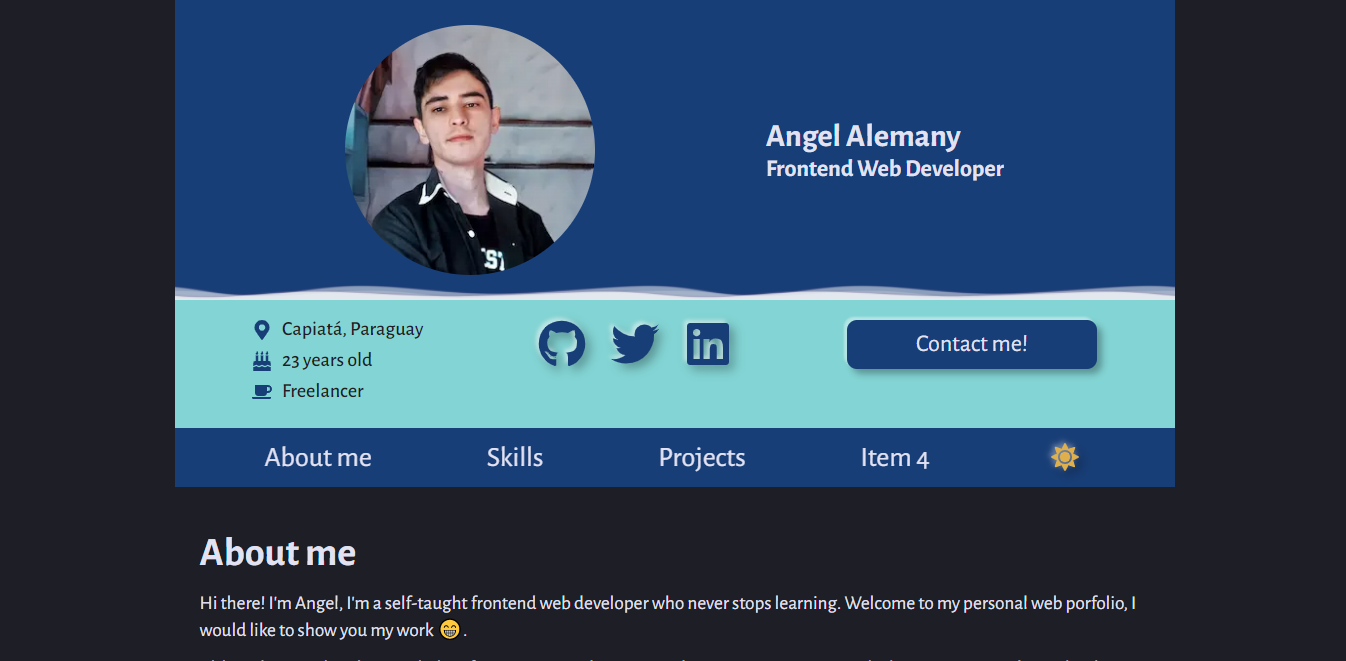
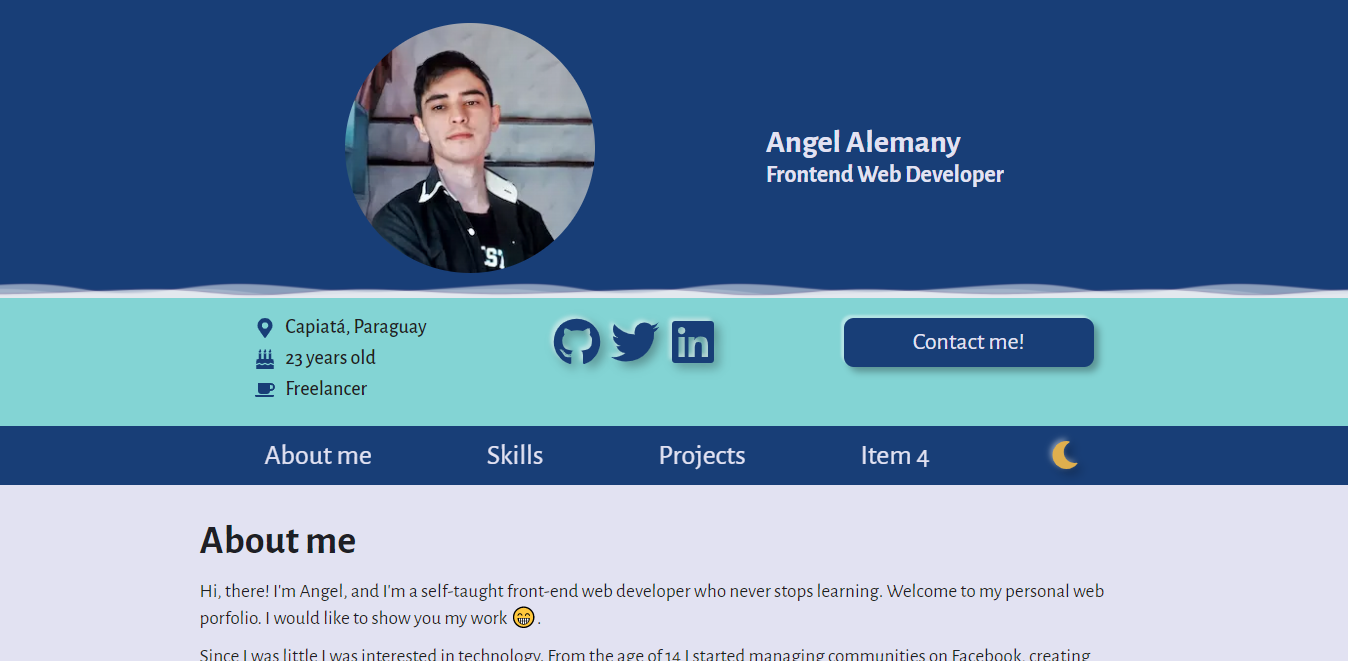
I replaced all gap properties inside a flex container

diff --git a/components/Profile/index.js b/components/Profile/index.js
@@ -1,6 +1,6 @@
 import Image from "next/image";
-import React, { useState } from 'react'
-import { FaTimesCircle } from "react-icons/fa"
+import React, { useState } from "react";
+import { FaTimesCircle } from "react-icons/fa";
 import styles from "./Profile.module.css";
 
 const Profile = () => {
@@ -8,33 +8,39 @@ const Profile = () => {
 
     return (
         <div className={styles.container}>
-            <div className={styles.modal}
-            style={{display: isPicOpen ? "block" : "none"}}>
+            <div className={styles.innerContainer}>
+                <div
+                    className={styles.modal}
+                    style={{ display: isPicOpen ? "block" : "none" }}
+                >
+                    <Image
+                        src="/img/profile.png"
+                        alt="Angel Alemany"
+                        layout="fill"
+                        objectFit="cover"
+                    />
+                    <FaTimesCircle
+                        className={styles.close}
+                        onClick={() => setIsPicOpen(false)}
+                    />
+                </div>
                 <Image
+                    className={styles.photo}
                     src="/img/profile.png"
                     alt="Angel Alemany"
-                    layout="fill"
-                    objectFit="cover"
+                    width={250}
+                    height={250}
+                    onClick={() => setIsPicOpen(true)}
                 />
-                <FaTimesCircle className={styles.close}
-                onClick={() => setIsPicOpen(false)} />
-            </div>
-            <Image
-                className={styles.photo}
-                src="/img/profile.png"
-                alt="Angel Alemany"
-                width={250}
-                height={250}
-                onClick={() => setIsPicOpen(true)}
-            />
-            <div className={styles.info}>
-                <h1>Angel Alemany</h1>
-                <h2>Frontend Web Developer</h2>
-            </div>
+                <div className={styles.info}>
+                    <h1>Angel Alemany</h1>
+                    <h2>Frontend Web Developer</h2>
+                </div>
 
-            <div className={styles.wave1}></div>
-            <div className={styles.wave2}></div>
-            <div className={styles.wave3}></div>
+                <div className={styles.wave1}></div>
+                <div className={styles.wave2}></div>
+                <div className={styles.wave3}></div>
+            </div>
         </div>
     );
 };

diff --git a/pages/index.js b/pages/index.js
@@ -10,33 +10,35 @@ import Footer from "../components/Footer";
 
 export default function Home({ dark, setDark }) {
     return (
-        <Layout dark={dark}>
-            <Head>
-                <title>Angel Alemany, Frontend Web Developer</title>
-                <meta
-                    name="description"
-                    content="Hi there! I'm a frontend web developer from Capiatá, Paraguay. Check out my work!"
-                />
-                <meta name="robots" content="index, follow" />
-                <meta
-                    property="og:title"
-                    content="Take a look at my portfolio!"
-                />
-                <meta property="og:image" content="/img/profile.png" />
-                <meta property="og:type" content="website" />
-                <meta
-                    property="og:description"
-                    content="Hi there! I'm a frontend web developer from Capiatá, Paraguay. Check out my work!"
-                />
-                <meta name="theme-color" content="#183e77" />
-            </Head>
+        <>
             <Profile />
             <Info />
             <Nav dark={dark} setDark={setDark} />
-            <About />
-            <Skills />
-            <Projects />
+            <Layout dark={dark}>
+                <Head>
+                    <title>Angel Alemany, Frontend Web Developer</title>
+                    <meta
+                        name="description"
+                        content="Hi there! I'm a frontend web developer from Capiatá, Paraguay. Check out my work!"
+                    />
+                    <meta name="robots" content="index, follow" />
+                    <meta
+                        property="og:title"
+                        content="Take a look at my portfolio!"
+                    />
+                    <meta property="og:image" content="/img/profile.png" />
+                    <meta property="og:type" content="website" />
+                    <meta
+                        property="og:description"
+                        content="Hi there! I'm a frontend web developer from Capiatá, Paraguay. Check out my work!"
+                    />
+                    <meta name="theme-color" content="#183e77" />
+                </Head>
+                <About />
+                <Skills />
+                <Projects />
+            </Layout>
             <Footer />
-        </Layout>
+        </>
     );
 }

diff --git a/components/Info/index.js b/components/Info/index.js
@@ -12,27 +12,29 @@ import styles from "./Info.module.css";
 const Info = () => {
     return (
         <section className={styles.wrapper}>
-            <ul className={styles.info}>
-                <li>
-                    <FaMapMarkerAlt />
-                    <span className={styles.data}>Capiatá, Paraguay</span>
-                </li>
-                <li>
-                    <FaBirthdayCake />
-                    <span className={styles.data}>23 years old</span>
-                </li>
-                <li>
-                    <FaCoffee />
-                    <span className={styles.data}>Freelancer</span>
-                </li>
-            </ul>
-            <div className={styles.social}>
-                <FaGithub className={styles.socialIcon} />
-                <FaTwitter className={styles.socialIcon} />
-                <FaLinkedin className={styles.socialIcon} />
-            </div>
-            <div className={styles.btn}>
-                <Button text="Contact me!" />
+            <div className={styles.container}>
+                <ul className={styles.info}>
+                    <li>
+                        <FaMapMarkerAlt />
+                        <span className={styles.data}>Capiatá, Paraguay</span>
+                    </li>
+                    <li>
+                        <FaBirthdayCake />
+                        <span className={styles.data}>23 years old</span>
+                    </li>
+                    <li>
+                        <FaCoffee />
+                        <span className={styles.data}>Freelancer</span>
+                    </li>
+                </ul>
+                <div className={styles.social}>
+                    <FaGithub className={styles.socialIcon} />
+                    <FaTwitter className={styles.socialIcon} />
+                    <FaLinkedin className={styles.socialIcon} />
+                </div>
+                <div className={styles.btn}>
+                    <Button text="Contact me!" />
+                </div>
             </div>
         </section>
     );

diff --git a/components/Projects/Projects.module.css b/components/Projects/Projects.module.css
@@ -1,6 +1,5 @@
 .container {
-    padding: 10px 25px;
-    margin: 2rem 0;
+    padding: 2rem 25px;
 }
 
 .sectionTitle {
@@ -33,18 +32,24 @@
     align-items: center;
     justify-content: center;
     flex-direction: column;
-    gap: 15px;
     border-radius: 10px;
     background-color: #83d4d4;
 }
 
+.links {
+    margin-bottom: 1rem;
+}
+
 .tech {
+    width: 100%;
     display: flex;
-    gap: 10px;
+    justify-content: space-around;
 }
 
 .icon {
     border-radius: 50%;
+    cursor: pointer;
+    transition: all 0.5s;
 }
 
 .caps {
@@ -116,7 +121,10 @@
 @media only screen and (max-width: 970px) {
     .cardBody {
         flex-direction: column;
-        gap: 20px;
+    }
+
+    .caps {
+        margin-bottom: 20px;
     }
 }
 

diff --git a/components/Footer/index.js b/components/Footer/index.js
@@ -2,11 +2,13 @@ import styles from "./Footer.module.css";
 
 const Footer = () => {
     return (
-        <div className={styles.container}>
-            <p className={styles.text}>Made with love and a lot of JS.</p>
-            <p className={styles.text}>Angel Mgl 2021&copy;</p>
-        </div>
-    )
-}
+        <footer className={styles.container}>
+            <div className={styles.innerContainer}>
+                <p className={styles.text}>Made with love and a lot of JS.</p>
+                <p className={styles.text}>Angel Mgl 2021&copy;</p>
+            </div>
+        </footer>
+    );
+};
 
 export default Footer;

diff --git a/components/Skills/index.js b/components/Skills/index.js
@@ -9,7 +9,7 @@ const Skills = () => {
                 <Card photo="/img/skills/html.png" title="HTML" />
                 <Card photo="/img/skills/css.png" title="CSS" />
                 <Card photo="/img/skills/sass.png" title="Sass" />
-                <Card photo="/img/skills/js.png" title="JavaScript" />
+                <Card photo="/img/skills/javascript.png" title="JavaScript" />
                 <Card photo="/img/skills/react.png" title="React" />
                 <Card photo="/img/skills/next.png" title="Next" />
                 <Card photo="/img/skills/node.png" title="Node" />

diff --git a/components/Info/Info.module.css b/components/Info/Info.module.css
@@ -1,11 +1,16 @@
 .wrapper {
-    display: flex;
+    background-color: #83D4D4;
+    color: #183E77;
+}
+
+.container {
     width: 100%;
+    max-width: 1000px;
+    margin: 0 auto;
+    display: flex;
     padding: 20px;
     justify-content: space-around;
     align-items: flex-start;
-    background-color: #83D4D4;
-    color: #183E77;
 }
 
 .info {
@@ -50,7 +55,7 @@
 
 @media only screen and (max-width: 576px) {
 
-    .wrapper {
+    .container {
         flex-direction: column-reverse;
     }
 

diff --git a/components/Profile/Profile.module.css b/components/Profile/Profile.module.css
@@ -1,8 +1,14 @@
 .container {
     padding: 25px 0;
     background-color: #183E77;
-    display: flex;
     position: relative;
+}
+
+.innerContainer {
+    width: 100%;
+    max-width: 1000px;
+    margin: 0 auto;
+    display: flex;
     justify-content: space-evenly;
     align-items: center;
     color: #e2e2f2;
@@ -95,7 +101,7 @@
 }
 
 @media only screen and (max-width: 768px) {
-    .container {
+    .innerContainer {
         flex-direction: column;
         text-align: center;
     }

diff --git a/components/Projects/index.js b/components/Projects/index.js
@@ -12,7 +12,7 @@ const Projects = () => {
                 mobile="/img/projects/rick-and-morty-mobile.png"
                 link="https://angelmgl.github.io/rick-and-morty/"
                 github="https://github.com/angelmgl/rick-and-morty/"
-                tech={["css", "js", "react"]}
+                tech={["css", "javascript", "react"]}
             >
                 <p style={{ marginTop: "0" }}>
                     CSR Website built on React js, consume the data from&nbsp;

diff --git a/components/About/About.module.css b/components/About/About.module.css
@@ -1,6 +1,5 @@
 .container {
-    padding: 10px 25px;
-    margin: 2rem 0;
+    padding: 2rem 25px 10px;
     border-radius: 10px;
     border-bottom: 1px solid #182e55;
     overflow: hidden;
@@ -19,7 +18,7 @@
     border: 1px solid #182e55;
     border-radius: 10px;
     color: #182e55;
-    transform: translateY(-2.5rem);
+    transform: translateY(-14px);
     cursor: pointer;
     outline: none;
 }

diff --git a/components/Projects/Card.js b/components/Projects/Card.js
@@ -61,6 +61,7 @@ const Card = ({
                                 key={item}
                                 src={`/img/skills/${item}.png`}
                                 alt={item}
+                                title={item}
                                 width={40}
                                 height={40}
                                 className={styles.icon}

diff --git a/components/Nav/index.js b/components/Nav/index.js
@@ -62,6 +62,11 @@ const Nav = ({ dark, setDark }) => {
                     display: none;
                 }
 
+                .nav-links {
+                    max-width: 1000px;
+                    margin: 0 auto;
+                }
+
                 nav .nav-links {
                     width: 100%;
                     height: 100%;
